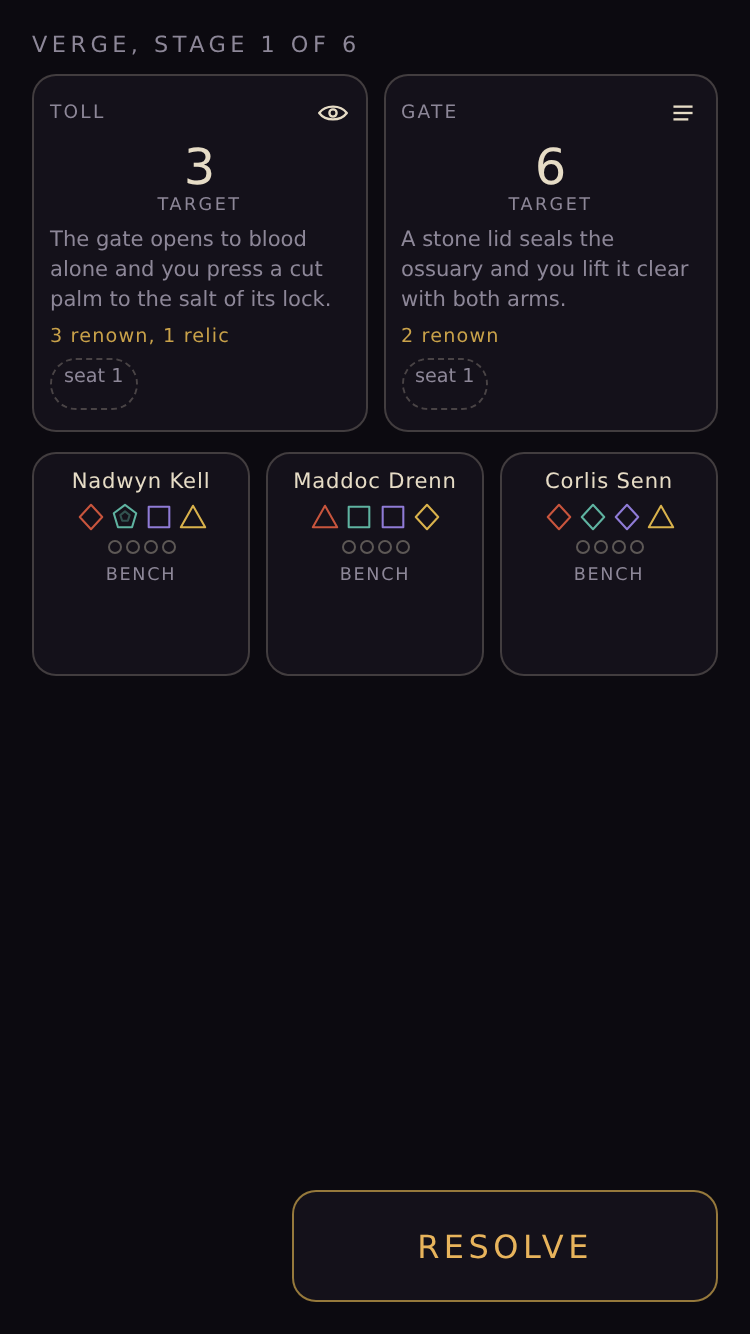
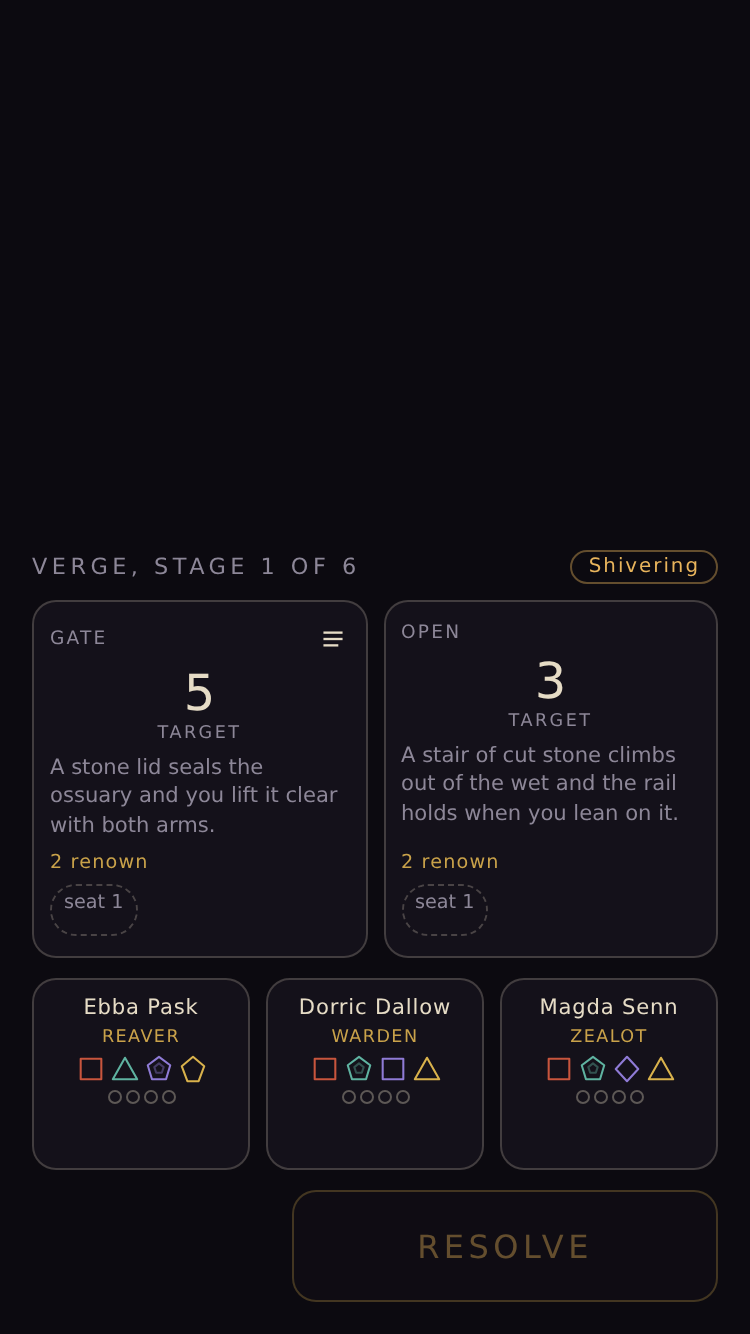
Marrowdeep P1: five faults found by looking at the board rather than by a gate
RESOLVE painted itself live on a board with nobody on it, because the enable check only ran when something was
assigned. The whole board sat at the top of a 667 px screen with 500 px of dead air beneath it, which is wrong
handed as well as ugly: the party cards are the most tapped things in the game and they were the furthest from
where a thumb pivots. The body grows from the bottom now, and the spacer that was beating the alignment is gone.
Every unassigned character read BENCH, which is a state the player chooses and not what was happening.

And the name generator dealt a party holding an Osric Yewdall and an Osric Gullick. Two characters sharing a first
name on a board of three cards costs the player the thing a name is for, so neither HALF repeats now, with a
fallback for the long lived account that exhausts them. The party card also carries its Calling, which it needed
and which fills the ninety pixels of air it was carrying instead.

Claude-Session: https://claude.ai/code/session_01QiZgsBRbYVVgXyYtXUCRLc

diff --git a/satellites/marrowdeep/tools/check.js b/satellites/marrowdeep/tools/check.js
@@ -1,0 +1,163 @@
+/* The one command that says whether Marrowdeep is shippable.
+ *
+ *   node tools/check.js            everything
+ *   node tools/check.js --fast     skips the slow gate and SAYS so
+ *
+ * Nothing commits without this printing ALL GATES PASSED. Each gate is a file
+ * that can be run on its own, and each is written so that it CAN fail; a gate
+ * nobody has watched fail is decoration (HANDOFF-MARROWDEEP section 5).
+ *
+ * Shape copied from satellites/fathom/tools/check.js, including its two scars:
+ * fast mode SKIPS a slow gate and never shrinks it, and a failure prints the
+ * FAILING lines rather than the tail, because the tail of a gate that died on
+ * assertion three is twenty five green ones.
+ */
+/* CommonJS on purpose. This file is named check.js because the plan and every
+   morning report name it that, and an ESM .js with no package.json makes Node
+   print a MODULE_TYPELESS warning above the gate table on every single run. */
+const { execFileSync } = require('node:child_process');
+const { join } = require('node:path');
+
+const ROOT = join(__dirname, '..');
+const FAST = process.argv.includes('--fast');
+
+const GATES = [
+  { name: 'lint',  cmd: ['tools/lint.mjs'],          need: 'LINT OK' },
+  { name: 'data',  cmd: ['tools/data.mjs', '--check'], need: 'DATA OK' },
+  /* ⛔ `table` is the slow one and it is SKIPPED whole in fast mode, never
+     shrunk. It measures the R1.4 master table through the real roll(), 200,000
+     rolls a row, and compares each row against the closed form to two decimal
+     places: d4 against TN 3 reads 50.1 where the arithmetic says 50.2. Drop the
+     sample to make it quick and that comparison becomes noise, so the gate goes
+     green on a broken table, which is worse than not running it. */
+  { name: 'table', cmd: ['sim.js', '--table'],       need: 'TABLE OK', slow: true },
+  { name: 'test',  cmd: ['sim.js', '--test'],        need: 'MD TEST OK' }
+];
+
+/* ---------------------------------------------------------------------------
+   THE LATER GATES. Each phase adds its own here; they are written out rather
+   than left to memory so the next builder adds a line instead of inventing a
+   name. Uncomment as each one lands, and watch it fail once before it counts.
+
+   { name: 'content', cmd: ['sim.js', '--data'],   need: 'DATA OK' }
+       The banks read through the ENGINE: it compiles every Trait, unique,
+       Origin, Calling and affix, generates a thousand relic names and a
+       thousand character names and applies the copy law to what comes OUT of
+       the generator, which no grep can reach. ⛔ It passes today (1008 bank
+       strings, 44 records, 2000 generated names, 8 card templates), and it is
+       parked here rather than switched on because the P0 gate list is the four
+       above. Turning it on is this one line. Note the name: `data` above is
+       tools/data.mjs --check, which asks whether the inlined block still equals
+       data/*.json; this asks whether the content MEANS anything. Both print
+       DATA OK, so they get different gate names.
+   { name: 'balance', cmd: ['sim.js', '--balance=200'], need: 'BALANCE OK', slow: true }
+   { name: 'depths',  cmd: ['sim.js', '--depths'],      need: 'DEPTHS OK', slow: true }
+       P3. Both fork workers over a grid; both are slow on purpose and both go
+       in the slow list rather than being sampled down.
+
+   And in BROWSER_GATES, in the order the phases build them:
+   { name: 'play',   cmd: ['test/play.mjs'],   need: 'PLAY OK' }          P1
+   { name: 'layout', cmd: ['test/layout.mjs'], need: 'LAYOUT OK' }        P1
+       ⛔ Layout carries the measured half of the 0.7 rem law (lint only greps
+       the sizes that are written down), the 120 by 120 music chip seat, and the
+       three widths 412, 375 and 320.
+   { name: 'save',   cmd: ['test/save.mjs'],   need: 'SAVE OK' }          P2
+   { name: 'audio',  cmd: ['test/audio.mjs'],  need: 'AUDIO OK' }         P4
+       ⛔ THE EAR GATE. It renders the loudest minute through the game's own
+       voices into an OfflineAudioContext and measures peak, rms and the share
+       above 3 kHz. Three games in this fleet shipped clipped with green gates
+       on Sep 07 because a fresh GainNode's gain is ONE.
+   --------------------------------------------------------------------------- */
+
+/* Browser gates drive the real page in a real browser with real pointer events
+   and need puppeteer. They are SKIPPED with a note when the browser is absent,
+   never failed: a gate that fails for want of a dependency teaches you to
+   ignore gates. They are also the ones that flake under contention on a two
+   core box, so a failure here is rerun ALONE, twice, before it is believed.
+   ⛔ One browser at a time is the law on this machine, and it belongs OUTSIDE
+   this file: run `timeout 2700 flock -w 1800 /tmp/sws-gate.lock node
+   tools/check.js`. This runner never takes that lock itself, because a tool
+   that flocks inside, wrapped in a flock of its own, deadlocks and sits there
+   until the timeout (Sep 08, sweep-twelve.mjs). The gates below run one after
+   another regardless, so a single check.js never opens two browsers. */
+const BROWSER_GATES = [
+  { name: 'boot', cmd: ['test/boot.mjs'], need: 'BOOT OK' }
+];
+
+const results = [];
+/* Why the browser gates might not run, in words, every time. SWS_NO_BROWSER=1
+   leaves them out ON PURPOSE (continuous integration: no Chrome, no display).
+   It is a SEPARATE branch from "puppeteer is missing" so a run that skipped
+   them says WHICH reason, and so CI can never start a browser by accident on a
+   runner that happens to carry one at the path below. And the summary line at
+   the bottom of this file then refuses to say ALL GATES PASSED, because a green
+   that overstates what ran is the oldest lie in this repo. */
+const NO_BROWSER = process.env.SWS_NO_BROWSER === '1';
+let browserWhy = '';
+if (NO_BROWSER) {
+  browserWhy = 'SWS_NO_BROWSER=1, the browser gates are not run here';
+} else {
+  try {
+    require.resolve('puppeteer', { paths: ['/workspaces/lucid-winds/node_modules'] });
+    for (const g of BROWSER_GATES) GATES.push(g);
+  } catch (e) {
+    browserWhy = 'puppeteer not found, skipping the browser gates';
+  }
+}
+if (browserWhy && BROWSER_GATES.length) {
+  console.log('note: ' + browserWhy + ' ('
+    + BROWSER_GATES.map(g => g.name).join(', ') + ')\n');
+}
+
+const skipped = [];
+for (const g of GATES) {
+  if (FAST && g.slow) { skipped.push(g.name); continue; }
+  process.stdout.write(g.name.padEnd(16));
+  const t0 = Date.now();
+  let out = '', code = 0;
+  try {
+    /* stderr is CAPTURED, not inherited. A tool that reports on stderr used to
+       spill its whole run into the middle of this table and the pass line
+       landed on the last row of it. */
+    const r = execFileSync('node', g.cmd, {
+      cwd: ROOT, encoding: 'utf8', maxBuffer: 32 * 1024 * 1024,
+      stdio: ['ignore', 'pipe', 'pipe'],
+      env: Object.assign({}, process.env, { NODE_PATH: '/workspaces/lucid-winds/node_modules' })
+    });
+    out = r;
+  } catch (e) {
+    out = (e.stdout || '') + (e.stderr || '');
+    code = e.status === undefined ? 1 : e.status;
+  }
+  const pass = code === 0 && out.indexOf(g.need) >= 0;
+  console.log((pass ? 'pass' : 'FAIL') + '  ' + ((Date.now() - t0) / 1000).toFixed(0) + 's');
+  results.push({ g, pass, out });
+}
+
+const bad = results.filter(r => !r.pass);
+if (bad.length) {
+  console.log('\n' + '='.repeat(64));
+  for (const r of bad) {
+    console.log('\n--- ' + r.g.name + ' (wanted: ' + r.g.need + ') ---');
+    const lines = r.out.split('\n');
+    const shown = [];
+    for (let i = 0; i < lines.length; i++) {
+      if (lines[i].indexOf('FAIL') >= 0 || /Error|error:/.test(lines[i])) {
+        for (let k = Math.max(0, i - 1); k <= Math.min(lines.length - 1, i + 1); k++) {
+          if (shown.indexOf(lines[k]) < 0) shown.push(lines[k]);
+        }
+      }
+    }
+    console.log(shown.length ? shown.join('\n') : lines.slice(-26).join('\n'));
+    if (shown.length) console.log('\n(tail)\n' + lines.slice(-6).join('\n'));
+  }
+}
+if (skipped.length) {
+  console.log('\nSKIPPED in fast mode, because a shrunken sample makes these lie: '
+    + skipped.join(', ') + '.\nRun `node tools/check.js` with no flag before calling anything a pass.');
+}
+console.log('\n' + (bad.length ? bad.length + ' GATE' + (bad.length > 1 ? 'S' : '') + ' FAILED'
+  : skipped.length ? 'THE GATES THAT CAN RUN FAST PASSED'
+    : browserWhy ? 'THE GATES THAT NEED NO BROWSER PASSED'
+      : 'ALL GATES PASSED'));
+process.exit(bad.length ? 1 : 0);

diff --git a/satellites/marrowdeep/index.html b/satellites/marrowdeep/index.html
@@ -145,6 +145,11 @@ h1,h2,p{margin:0}
 .lantern{min-height:48px;width:100%;max-width:340px;background:transparent;border:1px dashed rgba(232,180,92,.5);
   border-radius:10px;color:var(--lantern);font-size:.72rem;letter-spacing:.16em;font-family:inherit;cursor:pointer}
 .lantern[disabled]{opacity:.35;border-style:solid}
+/* ⛔ The quest board sits LOW. The first shot put the cards at the top of a 667 px
+   screen with 500 px of dead air beneath them, which is both ugly and wrong handed:
+   the party cards are the most tapped things in the game and they were the furthest
+   from where a thumb pivots. The body grows from the bottom. */
+#scr-quest .body,#scr-boss .body{justify-content:flex-end}
 .challenges{display:flex;gap:8px;width:100%;max-width:420px;align-items:stretch}
 .chal{flex:1 1 0;min-width:0;background:var(--ink-2);border:1px solid rgba(230,220,198,.22);border-radius:12px;
   padding:10px 8px;display:flex;flex-direction:column;gap:5px;min-height:158px;cursor:pointer}
@@ -165,7 +170,8 @@ h1,h2,p{margin:0}
 
 .party{display:flex;gap:8px;width:100%;max-width:420px;margin-top:10px}
 .pc{flex:1 1 0;min-width:0;background:var(--ink-2);border:1px solid rgba(230,220,198,.22);border-radius:12px;
-  padding:8px 6px;display:flex;flex-direction:column;align-items:center;gap:4px;cursor:pointer;min-height:112px}
+  padding:8px 6px;display:flex;flex-direction:column;align-items:center;gap:3px;cursor:pointer;min-height:96px}
+.pc .call{font-size:.55rem;letter-spacing:.08em;color:var(--brass)}
 .pc.on{border-color:var(--brass)}
 .pc.sel{border-color:var(--lantern);background:#1a1526}
 .pc.dead{opacity:.35}
@@ -363,7 +369,6 @@ h1,h2,p{margin:0}
     <button class="lantern" id="btnLantern" hidden>LANTERN</button>
     <div class="challenges" id="qChallenges"></div>
     <div class="party" id="qParty"></div>
-    <div class="spacer"></div>
   </div>
   <div class="pin questpin"><button class="btn primary" id="btnResolve">RESOLVE</button></div>
 </section>
@@ -421,7 +426,6 @@ h1,h2,p{margin:0}
     <div class="strainbar"><i id="bossBar"></i></div>
     <div class="aspects" id="bossAspects"></div>
     <div class="party" id="bossParty"></div>
-    <div class="spacer"></div>
   </div>
   <div class="pin questpin"><button class="btn primary" id="btnBossResolve">RESOLVE</button></div>
 </section>
@@ -1221,13 +1225,29 @@ var MD = (function () {
   }
 
   function nameCharacter(rng, account) {                                     // R10.5
+    /* ⛔ Neither HALF repeats either, not just the whole name. A first shot dealt a
+       party holding an Osric Yewdall and an Osric Gullick, and two characters
+       sharing a first name on a board of three cards is a real cost: the player
+       reads a name to tell them apart, and the wall reads a name to remember them
+       by. The parts are tracked separately, and a long lived account eventually
+       exhausts them, so the guard falls back to the whole name and then to any. */
     var used = (account && account.usedNames) || {};
-    var n = '', guard = 0;
+    var firsts = (account && account.usedFirst) || {}, seconds = (account && account.usedSecond) || {};
+    var n = '', a = '', b = '', guard = 0, best = null;
     do {
-      n = rng.pick(DATA.names.first) + ' ' + rng.pick(DATA.names.second);
+      a = rng.pick(DATA.names.first); b = rng.pick(DATA.names.second); n = a + ' ' + b;
+      if (!best && !used[n]) best = n;
       guard++;
-    } while (used[n] && guard < 200);
-    if (account) { if (!account.usedNames) account.usedNames = {}; account.usedNames[n] = 1; }
+    } while ((firsts[a] || seconds[b] || used[n]) && guard < 200);
+    if (firsts[a] || seconds[b] || used[n]) n = best || n;
+    if (account) {
+      if (!account.usedNames) account.usedNames = {};
+      if (!account.usedFirst) account.usedFirst = {};
+      if (!account.usedSecond) account.usedSecond = {};
+      account.usedNames[n] = 1;
+      account.usedFirst[n.split(' ')[0]] = 1;
+      account.usedSecond[n.split(' ').slice(1).join(' ')] = 1;
+    }
     return n;
   }
 
@@ -5046,6 +5066,7 @@ var GAME = (function () {
     G.plan.slots = G.plan.slots || [];
     paintChallenges(stage);
     paintParty();
+    updateResolve();          /* it looked live on a board with nobody on it */
     VIEW.show('quest');
     persist();
   }
@@ -5099,6 +5120,8 @@ var GAME = (function () {
         var held = heldBy(c.id);
         var p = el('div', 'pc' + (c.alive ? '' : ' dead') + (G.sel === c.id ? ' sel' : '') + (held ? ' on' : ''));
         p.appendChild(el('div', 'pn', c.name));
+        var cl = ((MD.data().lines.callings || {})[c.calling] || {}).name || c.calling || '';
+        p.appendChild(el('div', 'call', String(cl).toUpperCase()));
         var dr = el('div', 'dice');
         for (var k = 0; k < MD.STATS.length; k++) {
           var g = use(VIEW.dieGlyph(MD.effStat(c, MD.STATS[k])), 'glyph');
@@ -5107,7 +5130,9 @@ var GAME = (function () {
         }
         p.appendChild(dr);
         p.appendChild(pips(c));
-        p.appendChild(el('div', 'role', held ? 'ASSIGNED' : (c.alive ? ui('BENCH') : 'GONE')));
+        /* before RESOLVE nobody is benched, they are simply not placed yet; BENCH on
+           all three read as a state the player had chosen */
+        p.appendChild(el('div', 'role', held ? 'ON A CARD' : (c.alive ? '' : 'GONE')));
         if (c.alive) p.addEventListener('click', function () { G.sel = (G.sel === c.id) ? null : c.id; paintParty(); });
         host.appendChild(p);
       })(ch(q.party[i]));
